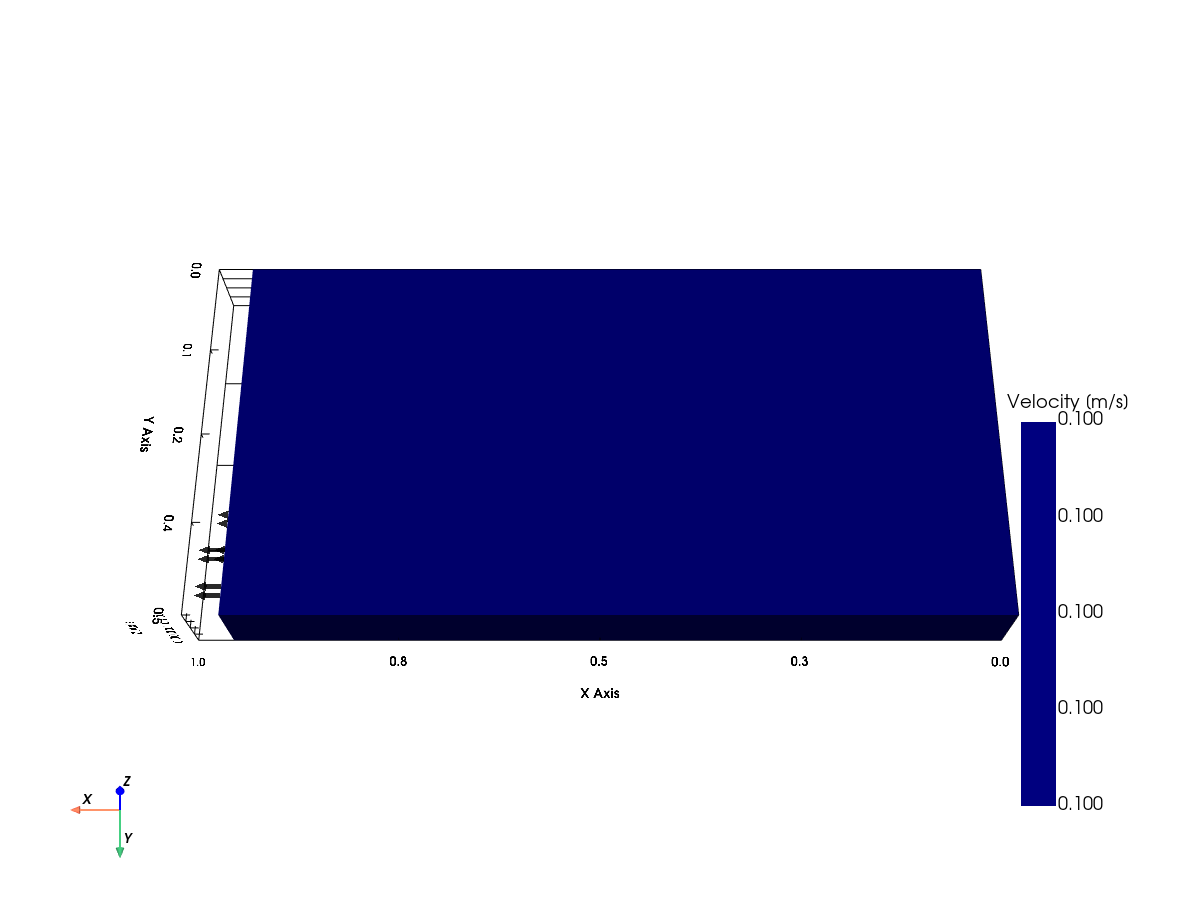
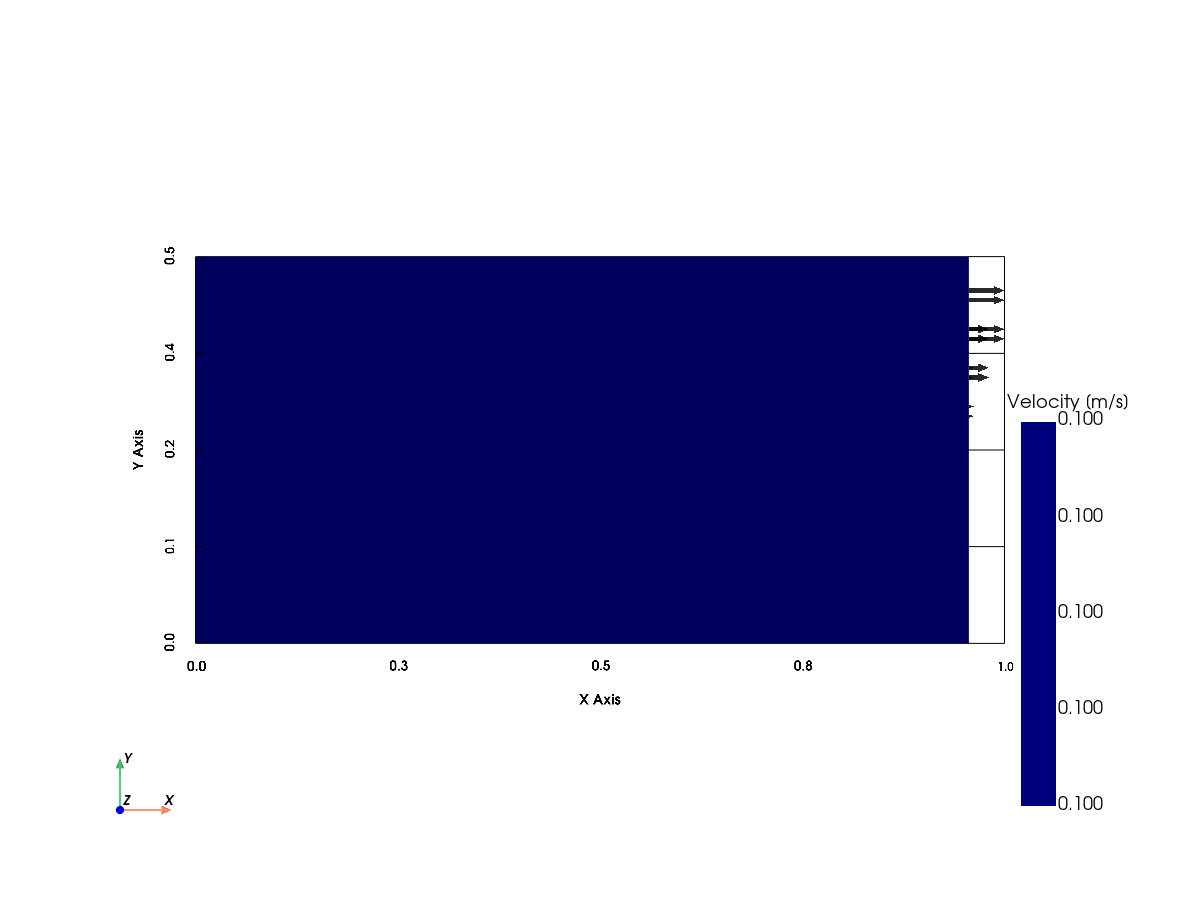
Add --update-velocity-only flag and regenerate velocity.png with XY view and parallel projection

Changed region(s): [[0.0925, 0.28, 0.8633, 0.7778], [0.0617, 0.84, 0.1542, 0.9022]]

diff --git a/circuitboardcooling/circuitboardcooling/__main__.py b/circuitboardcooling/circuitboardcooling/__main__.py
@@ -411,6 +411,9 @@ def visualize_velocity(mesh: pv.DataSet, output_path: Path) -> None:
 
     plotter = pv.Plotter(off_screen=True, window_size=[1200, 900])
 
+    # Enable parallel projection
+    plotter.enable_parallel_projection()
+
     # Calculate velocity magnitude
     velocity_data = mesh["U"]
     if velocity_data.ndim == NUMPY_DIM_2D and velocity_data.shape[1] == NUMPY_DIM_3D:
@@ -458,10 +461,8 @@ def visualize_velocity(mesh: pv.DataSet, output_path: Path) -> None:
                 opacity=0.6,
             )
 
-    # Set view
-    plotter.camera_position = "iso"
-    plotter.camera.azimuth = 45
-    plotter.camera.elevation = 30
+    # Set XY plane view (top view)
+    plotter.view_xy()
 
     # Add axes
     plotter.add_axes()
@@ -662,6 +663,11 @@ def main() -> int:
         type=str,
         help="Update mesh.png only using existing VTK file (provide path to VTK file)",
     )
+    parser.add_argument(
+        "--update-velocity-only",
+        type=str,
+        help="Update velocity.png only using existing VTK file (provide path to VTK file)",
+    )
 
     args = parser.parse_args()
 
@@ -678,6 +684,20 @@ def main() -> int:
             output_path = Path(__file__).parent.parent / "mesh.png"
             visualize_mesh(mesh, output_path)
             logger.info("Mesh image updated successfully!")
+            return 0
+
+        # Update velocity image only
+        if args.update_velocity_only:
+            logger.info("Updating velocity.png from: %s", args.update_velocity_only)
+            vtk_file = Path(args.update_velocity_only)
+            if not vtk_file.exists():
+                msg = f"VTK file not found: {vtk_file}"
+                raise FileNotFoundError(msg)
+            
+            mesh = pv.read(str(vtk_file))
+            output_path = Path(__file__).parent.parent / "velocity.png"
+            visualize_velocity(mesh, output_path)
+            logger.info("Velocity image updated successfully!")
             return 0
 
         # Setup case directory
